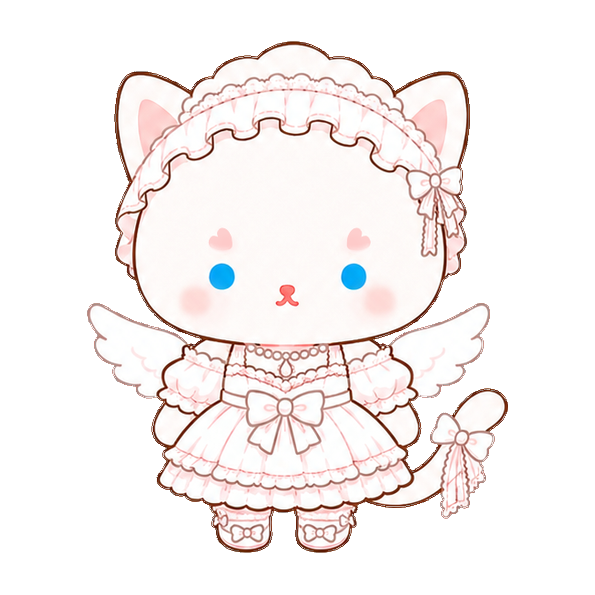
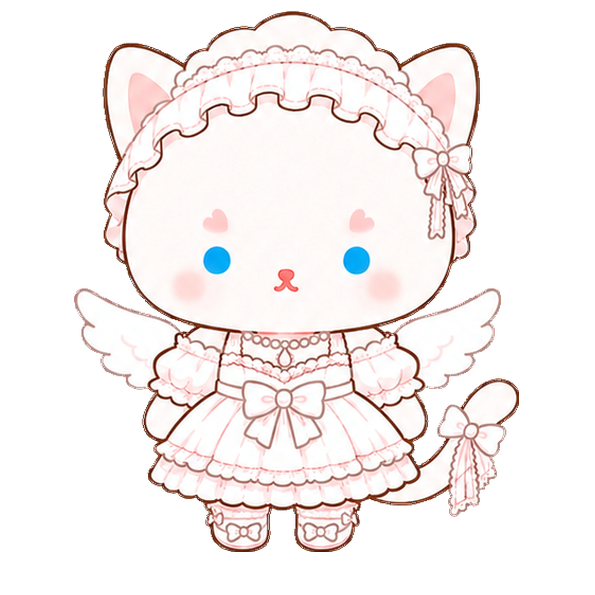
fix(bun): enlarge outfit skins to match the classic cat's face
The hood/bonnet/ears on angel, dreams, snowrabbit and strawberry made the
actual cat face read smaller than classic. Scaled each up so its eye
spacing matches classic (angel/snowrabbit exact, strawberry 98%, dreams
94% — capped by canvas headroom under the nightcap), feet still aligned.
Metrics re-measured.

diff --git a/src/constants/figure-calibration.ts b/src/constants/figure-calibration.ts
@@ -4,11 +4,11 @@
 // fractions of the square render box (contentFit: "contain"). Consumed by
 // src/lib/figure-height.ts to equalize figure heights in the study room.
 export const FIGURE_METRICS: Record<string, { fill: number; pad: number }> = {
-  'bun/angel': { fill: 0.8605, pad: 0.0706 },
+  'bun/angel': { fill: 0.9092, pad: 0.0723 },
   'bun/classic': { fill: 0.9211, pad: 0.0766 },
-  'bun/dreams': { fill: 0.8644, pad: 0.0758 },
-  'bun/snowrabbit': { fill: 0.8309, pad: 0.0766 },
-  'bun/strawberry': { fill: 0.7974, pad: 0.0766 },
+  'bun/dreams': { fill: 0.9219, pad: 0.0766 },
+  'bun/snowrabbit': { fill: 0.9211, pad: 0.0774 },
+  'bun/strawberry': { fill: 0.9211, pad: 0.0774 },
   'companion_bunny/classic': { fill: 0.8939, pad: 0.0502 },
   'companion_bunny/jiraikei': { fill: 0.8190, pad: 0.0502 },
   'companion_bunny/palace': { fill: 0.9370, pad: 0.0502 },
